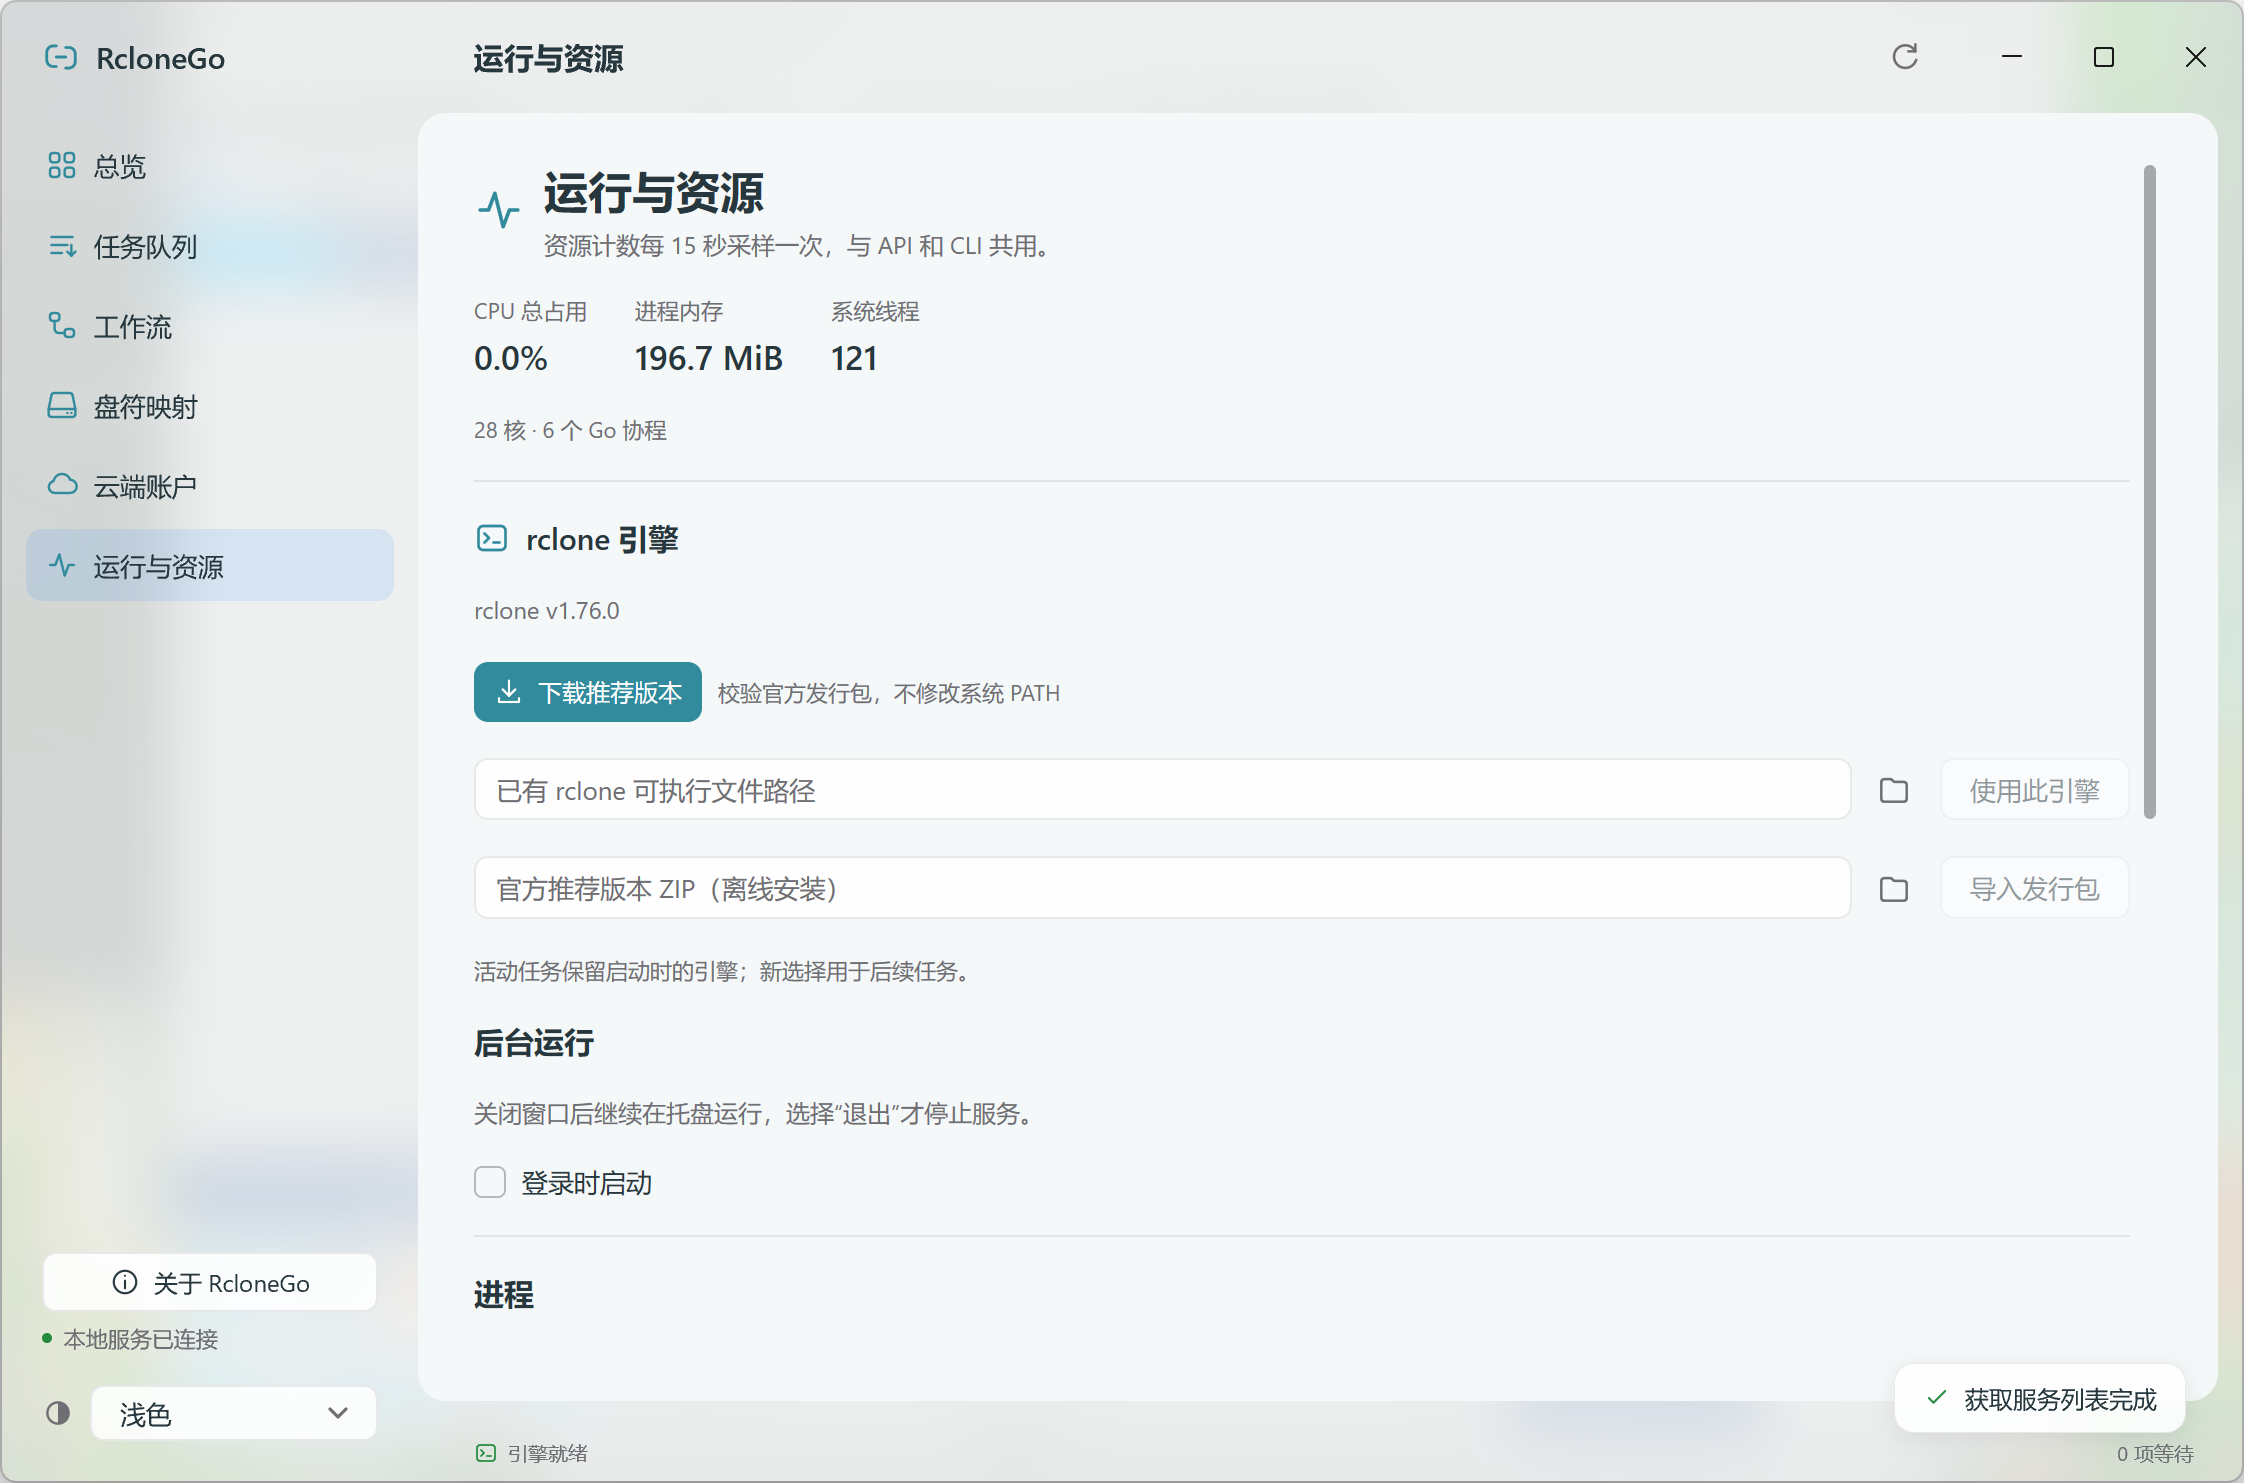
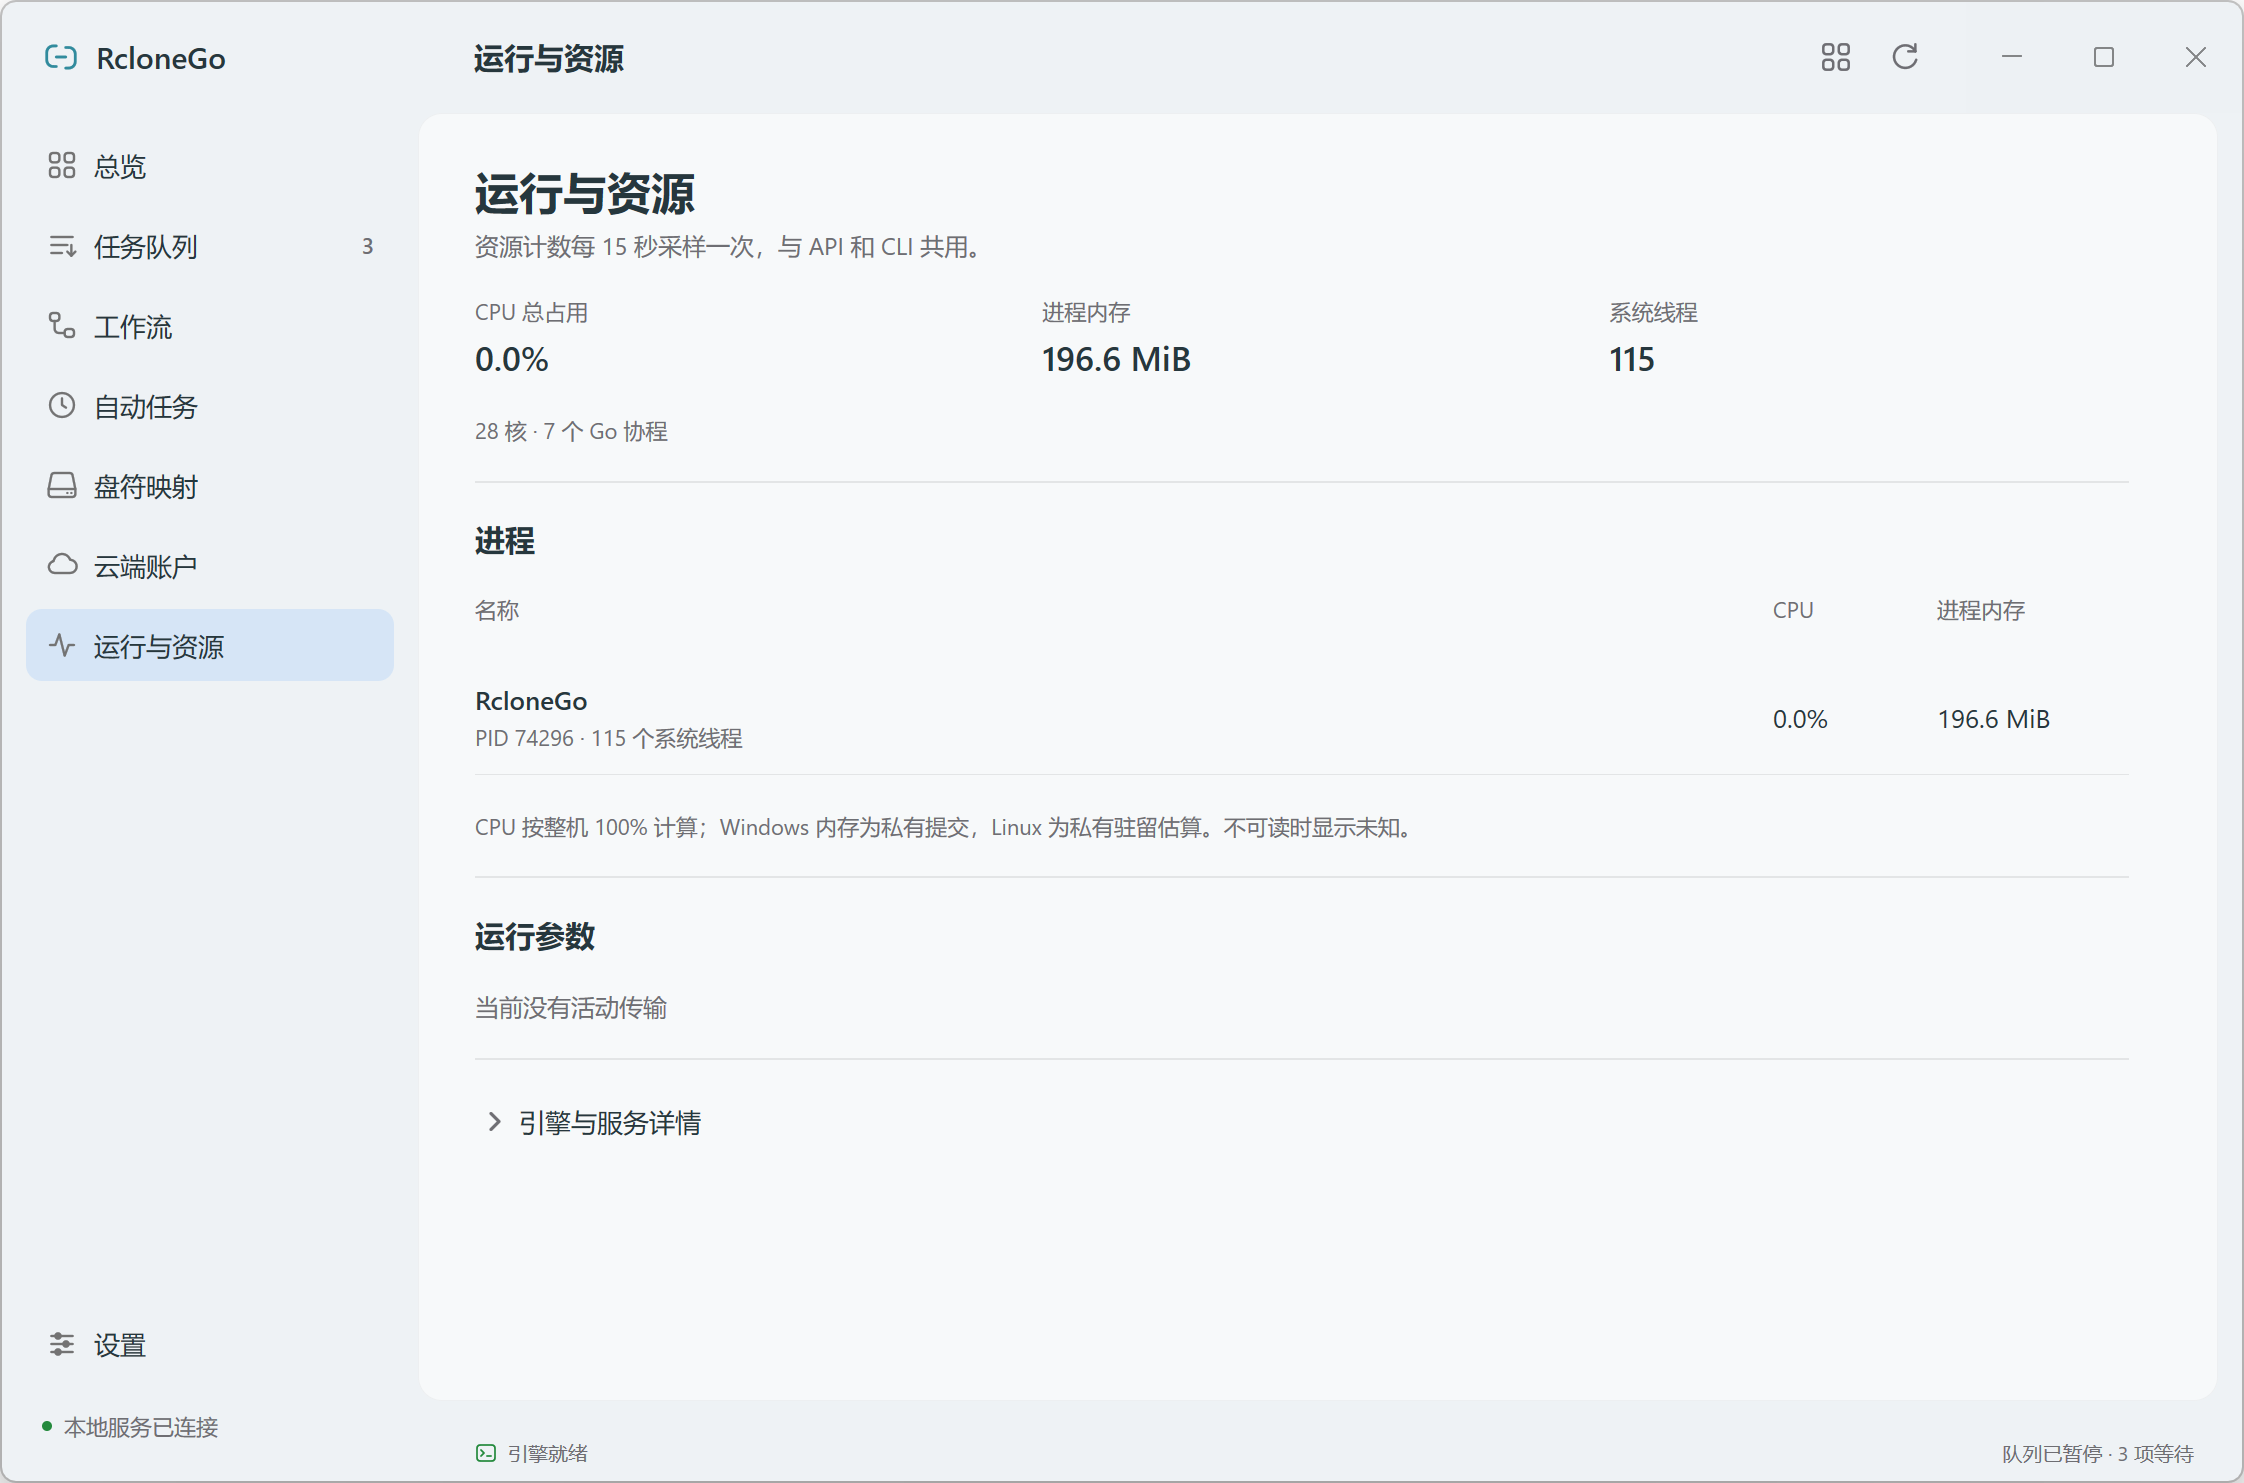
Refresh resource and unified settings screenshots
Use the final synthetic Windows preview and point installation guidance at Settings.

diff --git a/README.zh-CN.md b/README.zh-CN.md
@@ -17,7 +17,7 @@ RcloneGo 是管理传输、挂载与校验的原生桌面客户端，由
 
 项目处于 alpha 开发阶段，是独立社区项目，不代表 rclone 或 MyGo 官方。
 
-<p align="center"><img src="assets/screenshots/resources-light.png" width="900" alt="RcloneGo 原生资源与引擎管理"></p>
+<p align="center"><img src="assets/screenshots/resources-light.png" width="900" alt="RcloneGo 原生资源监控"></p>
 
 ## 主要能力
 
@@ -60,7 +60,7 @@ Linux 使用随包的安装脚本或发行版包。
 客户端不修改 PATH，也不覆盖包管理器安装。挂载组件单独安装：
 Windows 使用 WinFsp，Linux 使用 FUSE，macOS 需要兼容的 FUSE 与引擎构建。
 
-“设置”统一管理外观、语言、登录启动、客户端更新和新任务默认参数；
+[“设置”页面](assets/screenshots/settings-light.png)统一管理外观、语言、登录启动、客户端更新和新任务默认参数；
 引擎与默认参数可按需展开。“运行与资源”显示当前占用和即时限速控制。
 
 ## 开始第一个工作流

diff --git a/README.md b/README.md
@@ -19,7 +19,7 @@ one persistent scheduler.
 This is an independent community project under active alpha development.
 It is not an official rclone or MyGo application.
 
-<p align="center"><img src="assets/screenshots/resources-light.png" width="900" alt="RcloneGo native resource and engine controls"></p>
+<p align="center"><img src="assets/screenshots/resources-light.png" width="900" alt="RcloneGo native resource monitoring"></p>
 
 ## What it does
 
@@ -68,7 +68,7 @@ existing executable or import its verified ZIP offline. This does not modify PAT
 or a package-manager installation. Mounts separately require WinFsp on Windows,
 FUSE on Linux, or a compatible FUSE/engine combination on macOS.
 
-**Settings** also contains appearance, interface language, login startup,
+The [Settings page](assets/screenshots/settings-light.png) contains appearance, interface language, login startup,
 client updates and collapsible defaults for new tasks. **Resources** shows
 current process usage and live bandwidth controls.
 
